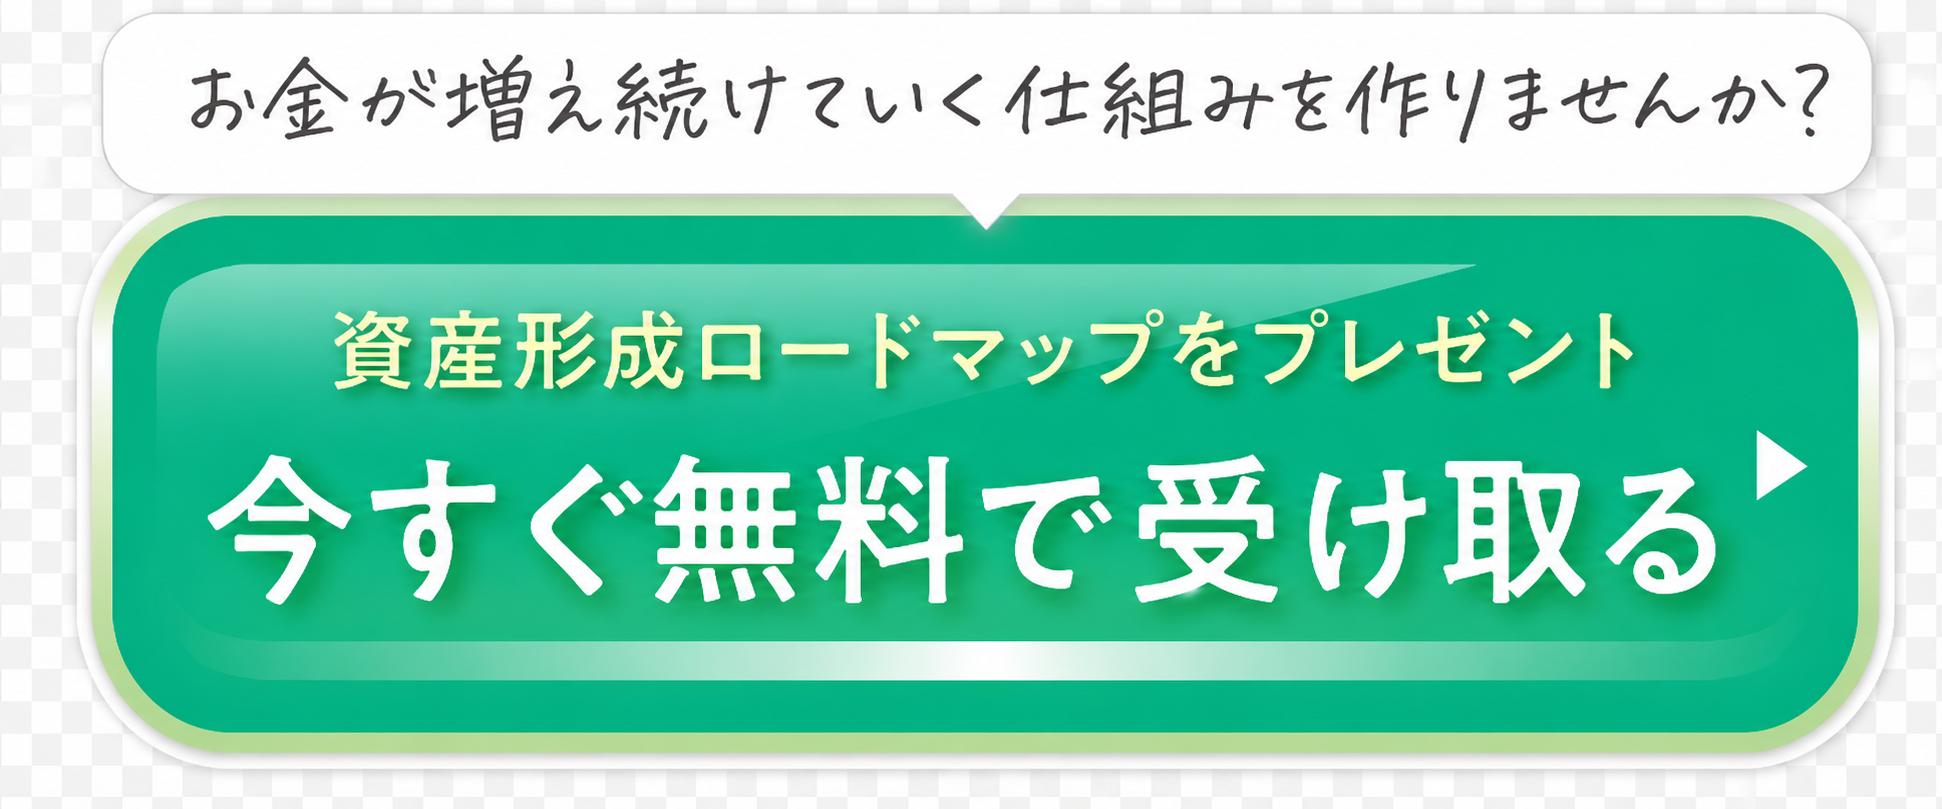
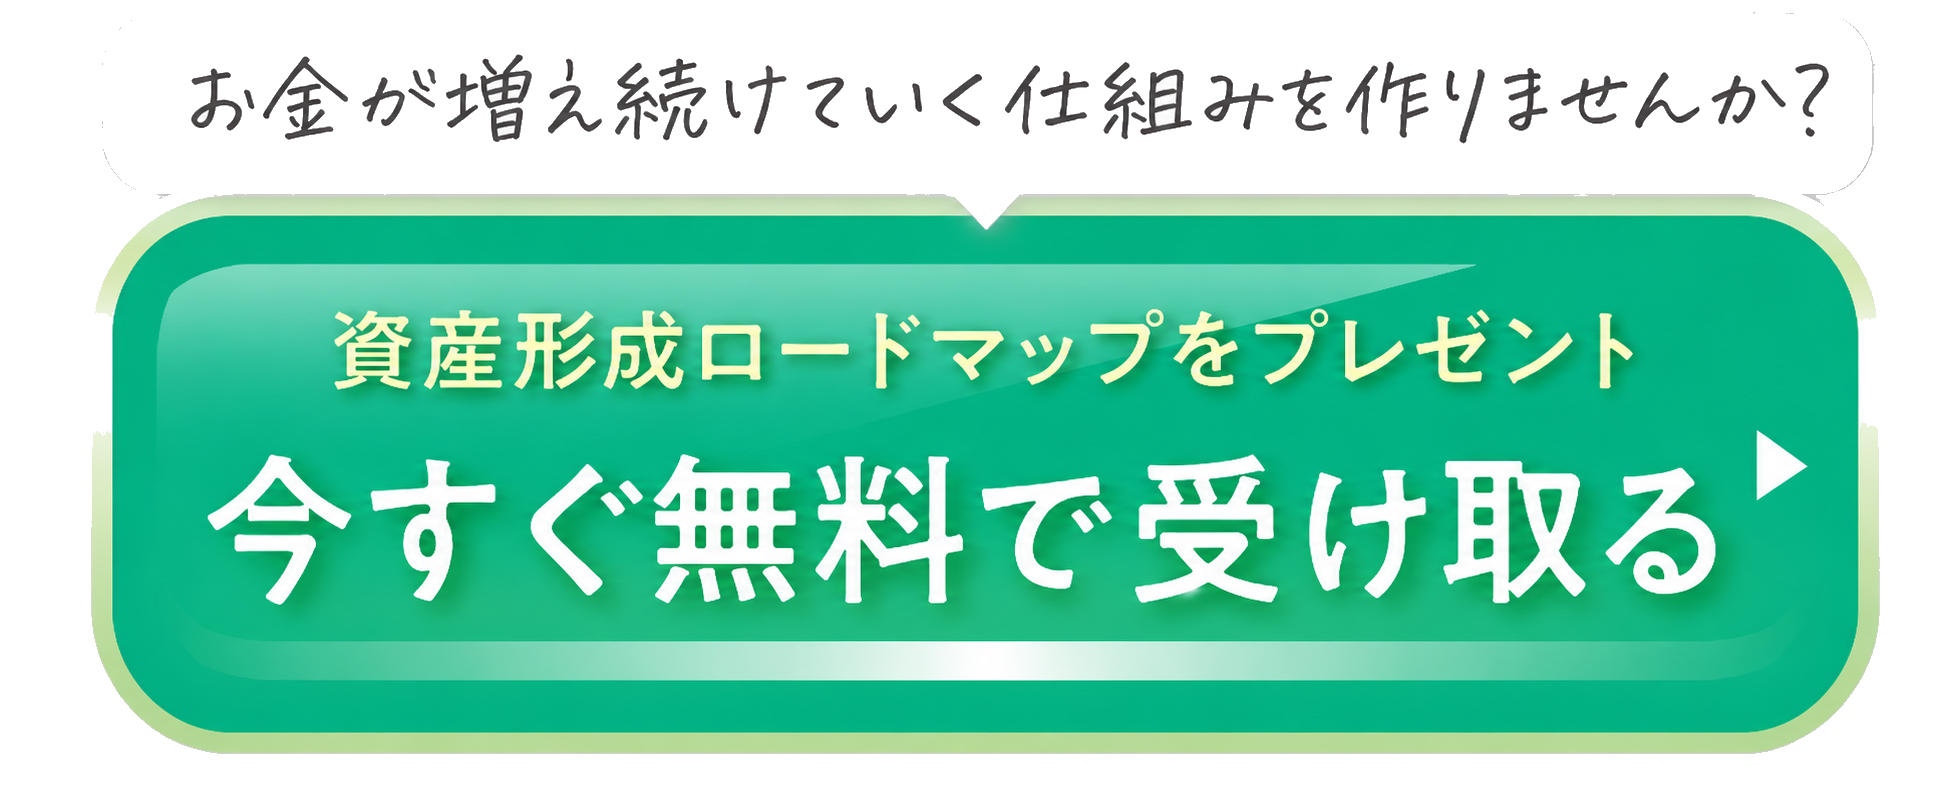
CTAボタンを背景透過処理(フチ外の白を除去)

diff --git a/index.html b/index.html
@@ -799,7 +799,7 @@ footer .f-copy{margin-top:14px;font-size:12px;opacity:.95;}
     <img class="tokuten-line-img" src="images/tokuten-line2.png?v=2" alt="さらに勉強会参加で20大特典をGET！勉強会参加後すぐに、動画・PDFをお受け取りいただけます" width="1122" height="1402">
 
     <div class="cta-wrap" style="margin-top:36px;">
-      <a class="cta-link" href="#"><img class="cta-img" src="images/cta-btn.png?v=2" alt="お金が増え続けていく仕組みを作りませんか？資産形成ロードマップをプレゼント。今すぐ無料で受け取る" width="1942" height="809"></a>
+      <a class="cta-link" href="#"><img class="cta-img" src="images/cta-btn.png?v=3" alt="お金が増え続けていく仕組みを作りませんか？資産形成ロードマップをプレゼント。今すぐ無料で受け取る" width="1942" height="809"></a>
     </div>
   </section>
 
